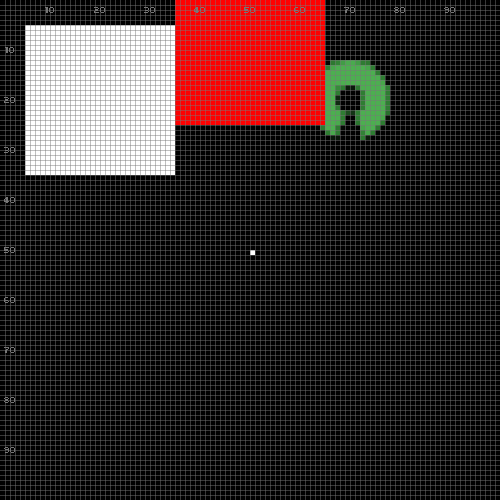
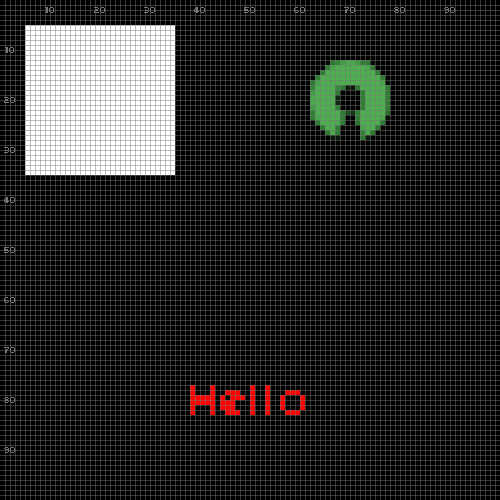
...

Changed region(s): [[0.33, 0.0, 0.66, 0.27], [0.36, 0.75, 0.63, 0.84], [0.48, 0.48, 0.51, 0.51]]

diff --git a/lua/doc/guide.md b/lua/doc/guide.md
@@ -186,20 +186,38 @@ Other drawing operations include `draw.line`, `draw.polygon`, and `draw.text`.
 `pico-lua` maintains internal state that affects drawing operations, such as
 the current color, alpha transparency, and drawing style.
 
-To change the drawing color, we call `pico.set.color.draw`:
+To change the drawing color for further operations, we call
+`pico.set.color.draw`:
 
 <table>
 <tr><td><pre>
 > pico.set.color.draw('red')
-> pico.output.draw.rect({'!', x=50, y=10, w=30, h=30})
+> pico.output.draw.text("Hello", {'!', x=50, y=80, h=10})
 </pre>
 </td><td>
 <img src="img/guide-04-01.png" width="200">
 </td></tr>
 </table>
 
-Colors can be named strings (`'red'`, `'green'`, `'blue'`, `'white'`, etc.),
-RGB arguments (`255, 0, 0`), or RGB tables (`{r=255, g=0, b=0}`).
+The text appears in red, centered at the given position.
+
+Note that the text width should not be set to preserve the correct aspect
+ratio.
+
+We may also change the drawing transparency:
+
+<table>
+<tr><td><pre>
+> pico.set.color.alpha(0x88)
+> pico.output.draw.oval({'!', x=50, y=80, w=35, h=15})
+</pre>
+</td><td>
+<img src="img/guide-04-02.png" width="200">
+</td></tr>
+</table>
+
+The oval appears on top of the text, but the transparency keeps the text
+visible.
 
 # 5. Positioning: Mode & Anchor
 
